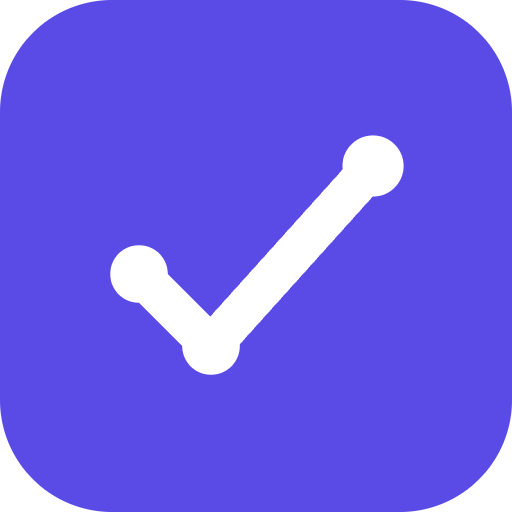
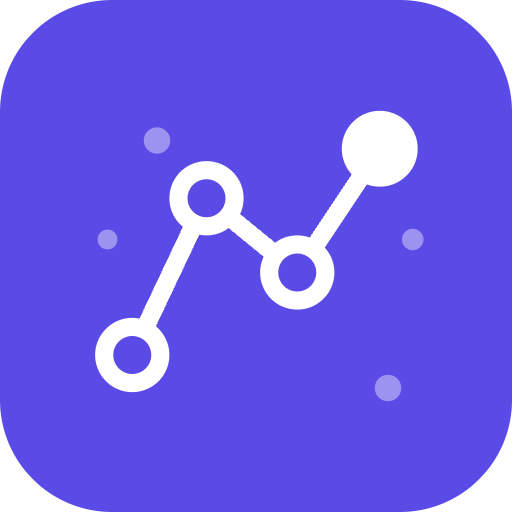
Substitui iniciais textuais e ícone antigo (checkmark) pelo mark de grafo

diff --git a/src/components/BrandMark.jsx b/src/components/BrandMark.jsx
@@ -1,0 +1,13 @@
+export default function BrandMark({ size = 26 }) {
+  return (
+    <svg width={size} height={size} viewBox="0 0 48 48" aria-hidden="true" focusable="false">
+      <g stroke="#fff" strokeWidth="2.2" fill="none" strokeLinecap="round" strokeLinejoin="round">
+        <polyline points="9,36 18,17 29,26 39,11" />
+      </g>
+      <circle cx="9" cy="36" r="3.4" fill="var(--cert-accent)" stroke="#fff" strokeWidth="2.2" />
+      <circle cx="18" cy="17" r="3.4" fill="var(--cert-accent)" stroke="#fff" strokeWidth="2.2" />
+      <circle cx="29" cy="26" r="3.4" fill="var(--cert-accent)" stroke="#fff" strokeWidth="2.2" />
+      <circle cx="39" cy="11" r="4.6" fill="#fff" />
+    </svg>
+  );
+}

diff --git a/src/App.jsx b/src/App.jsx
@@ -7,6 +7,7 @@ import Glossary from "./components/Glossary.jsx";
 import Stats from "./components/Stats.jsx";
 import Onboarding from "./components/Onboarding.jsx";
 import CertSelector from "./components/CertSelector.jsx";
+import BrandMark from "./components/BrandMark.jsx";
 import { loadProgress, saveProgress, recordAnswer, getDueItems, setActiveCertForStorage } from "./lib/storage.js";
 import { getBank } from "./lib/bank.js";
 import { t } from "./lib/ui-strings.js";
@@ -171,7 +172,7 @@ export default function App() {
   return (
     <div className="app" {...(activeCert ? { "data-cert": activeCert } : {})}>
       <header className="masthead">
-        <div className="mast-mark" aria-hidden="true">{catalogCert ? catalogCert.mark : "S"}</div>
+        <div className="mast-mark" aria-hidden="true"><BrandMark size={26} /></div>
         <div>
           <h1>{catalogCert ? catalogCert.fullName : "Synapse"}</h1>
           {catalogCert && (

diff --git a/src/components/CertSelector.jsx b/src/components/CertSelector.jsx
@@ -1,6 +1,7 @@
 import { useNavigate } from "react-router-dom";
 import { CERT_CATALOG } from "../certs-catalog.js";
 import { DEFAULT_SECTION } from "../certs.js";
+import BrandMark from "./BrandMark.jsx";
 
 // Tela de seleção de certificação (/select) e destino do badge do masthead.
 // Live → navega pra /{id}/{seção}; coming-soon → desabilitado; legacy →
@@ -33,7 +34,7 @@ export default function CertSelector({ lang = "pt" }) {
               aria-disabled={!isLive}
               onClick={isLive ? () => navigate(`/${c.id}/${DEFAULT_SECTION}`) : undefined}
             >
-              <span className="cc-mark" aria-hidden="true">{c.mark}</span>
+              <span className="cc-mark" aria-hidden="true"><BrandMark size={22} /></span>
               <span className="cc-body">
                 <span className="cc-title">{c.label}</span>
                 <span className="cc-sub">ISTQB {c.fullName} {c.version}</span>